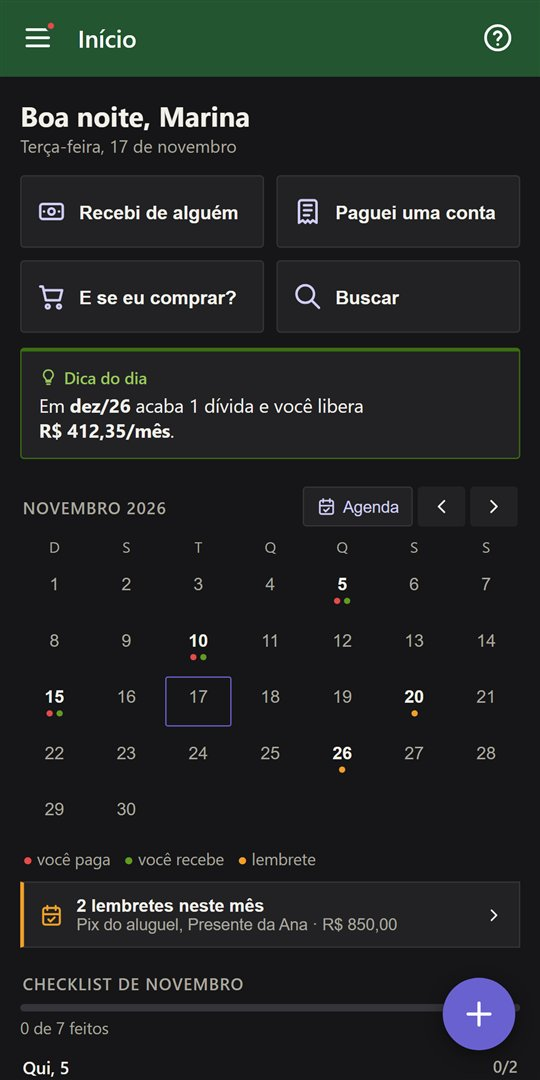
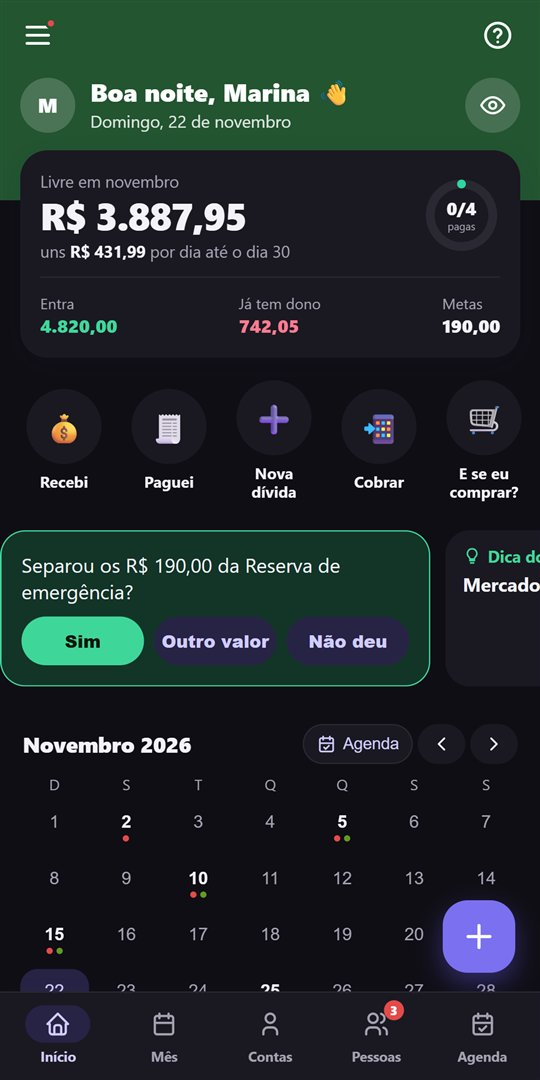
Site: telas com o visual novo da v1.24 e o olho que esconde os valores

diff --git a/index.html b/index.html
@@ -268,7 +268,7 @@ footer .marca{color:var(--tx);margin-bottom:6px}
       </ul>
     </div>
     <div style="position:relative">
-      <div class="cel"><img src="img/1-inicio.jpg" alt="Tela inicial do Domicash com calendário de pagamentos e recebimentos" width="540" height="1080"></div>
+      <div class="cel"><img src="img/1-inicio.jpg" alt="Tela inicial do Domicash com quanto fica livre no mês, atalhos e calendário de pagamentos" width="540" height="1080"></div>
       <div class="flutua f1"><span class="ic" style="background:color-mix(in srgb,var(--verde) 18%,transparent);color:var(--verde)"><svg width="18" height="18" viewBox="0 0 24 24" fill="none" stroke="currentColor" stroke-width="2.2" stroke-linecap="round" stroke-linejoin="round"><path d="m5 12 5 5L20 7"/></svg></span><span><b>Sobram R$ 2.857,85</b>do salário em novembro</span></div>
       <div class="flutua f2"><span class="ic" style="background:color-mix(in srgb,var(--roxo) 18%,transparent);color:var(--roxo)"><svg width="18" height="18" viewBox="0 0 24 24" fill="none" stroke="currentColor" stroke-width="2.2" stroke-linecap="round" stroke-linejoin="round"><path d="M9 18h6M10 22h4M12 2a7 7 0 0 0-4 12.7V17h8v-2.3A7 7 0 0 0 12 2z"/></svg></span><span><b>Em dez/26 acaba 1 dívida</b>e você libera R$ 412,35/mês</span></div>
     </div>
@@ -390,7 +390,7 @@ Agradeço! 🙏<small>10:02 ✓✓</small></div>
   <div class="wrap">
     <div class="cab surge"><span class="tag">Por dentro do app</span><h2>Simples de usar, todo dia.</h2><p class="sub">Arraste para ver as telas. Os nomes e valores são de exemplo.</p></div>
     <div class="galeria" tabindex="0" aria-label="Telas do Domicash">
-      <figure><div class="cel"><img src="img/1-inicio.jpg" alt="Tela inicial" loading="lazy" width="540" height="1080"></div><figcaption>Início<span>Calendário e checklist do mês</span></figcaption></figure>
+      <figure><div class="cel"><img src="img/1-inicio.jpg" alt="Tela inicial" loading="lazy" width="540" height="1080"></div><figcaption>Início<span>Quanto fica livre, atalhos e checklist</span></figcaption></figure>
       <figure><div class="cel"><img src="img/4-mes.jpg" alt="Visão do mês" loading="lazy" width="540" height="1080"></div><figcaption>Visão do mês<span>Saldo e faturas por banco</span></figcaption></figure>
       <figure><div class="cel"><img src="img/5-pessoal.jpg" alt="Contas pessoais" loading="lazy" width="540" height="1080"></div><figcaption>Pessoal<span>Salário e para onde vai o dinheiro</span></figcaption></figure>
       <figure><div class="cel"><img src="img/6-agenda.jpg" alt="Agenda de lembretes" loading="lazy" width="540" height="1080"></div><figcaption>Agenda<span>Contas fora do cartão</span></figcaption></figure>
@@ -414,7 +414,7 @@ Agradeço! 🙏<small>10:02 ✓✓</small></div>
       <div class="rec surge"><span class="ic" style="background:color-mix(in srgb,var(--laranja) 18%,transparent);color:var(--laranja)"><svg width="22" height="22" viewBox="0 0 24 24" fill="none" stroke="currentColor" stroke-width="2" stroke-linecap="round" stroke-linejoin="round"><rect x="3" y="4" width="18" height="17" rx="2"/><path d="M8 2v4M16 2v4M3 10h18M8 15l2 2 4-4"/></svg></span><h3>Agenda e lembretes</h3><p>Contas fora do cartão, como aluguel, Pix e presentes, com aviso no celular.</p></div>
       <div class="rec surge"><span class="ic" style="background:color-mix(in srgb,var(--ouro) 18%,transparent);color:var(--ouro)"><svg width="22" height="22" viewBox="0 0 24 24" fill="none" stroke="currentColor" stroke-width="2" stroke-linecap="round" stroke-linejoin="round"><circle cx="9" cy="8" r="3.5"/><path d="M2.5 20a6.5 6.5 0 0 1 13 0M16 4.5a3.5 3.5 0 0 1 0 7M18 14a6 6 0 0 1 3.5 6"/></svg></span><h3>Quem te deve</h3><p>Para quem empresta o cartão: o total de cada pessoa, os atrasos e um placar de pontualidade.</p></div>
       <div class="rec surge"><span class="ic" style="background:color-mix(in srgb,var(--azul) 18%,transparent);color:var(--azul)"><svg width="22" height="22" viewBox="0 0 24 24" fill="none" stroke="currentColor" stroke-width="2" stroke-linecap="round" stroke-linejoin="round"><path d="M17.5 19a4.5 4.5 0 1 0-1.4-8.8A6 6 0 0 0 4.5 12 3.5 3.5 0 0 0 5 19z"/></svg></span><h3>Backup no Google Drive</h3><p>Trocou de celular? Entre com a sua conta Google e está tudo lá.</p></div>
-      <div class="rec surge"><span class="ic" style="background:color-mix(in srgb,var(--verde) 18%,transparent);color:var(--verde)"><svg width="22" height="22" viewBox="0 0 24 24" fill="none" stroke="currentColor" stroke-width="2" stroke-linecap="round" stroke-linejoin="round"><rect x="5" y="11" width="14" height="10" rx="2"/><path d="M8 11V7a4 4 0 0 1 8 0v4"/></svg></span><h3>Bloqueio com digital</h3><p>O app abre só com a sua digital, PIN ou senha. Ninguém espia suas contas.</p></div>
+      <div class="rec surge"><span class="ic" style="background:color-mix(in srgb,var(--verde) 18%,transparent);color:var(--verde)"><svg width="22" height="22" viewBox="0 0 24 24" fill="none" stroke="currentColor" stroke-width="2" stroke-linecap="round" stroke-linejoin="round"><rect x="5" y="11" width="14" height="10" rx="2"/><path d="M8 11V7a4 4 0 0 1 8 0v4"/></svg></span><h3>Bloqueio com digital</h3><p>O app abre só com a sua digital, PIN ou senha. E o olho da tela inicial esconde os valores quando tem gente por perto.</p></div>
     </div>
   </div>
 </section>
